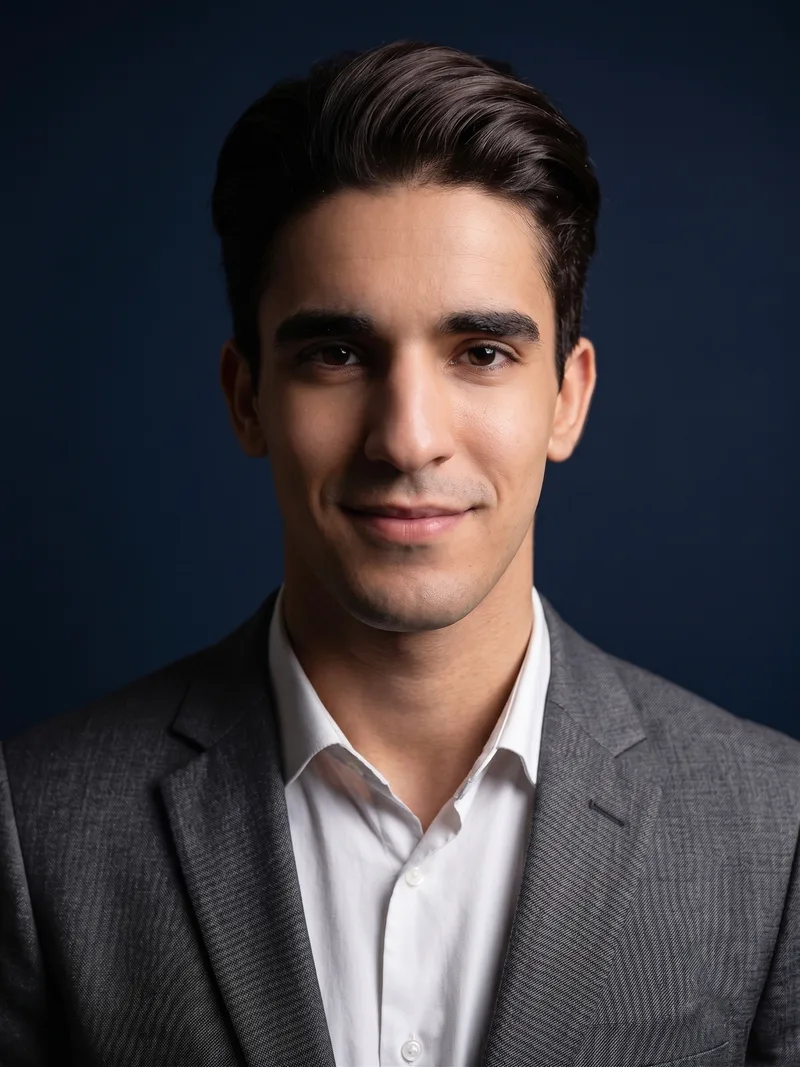
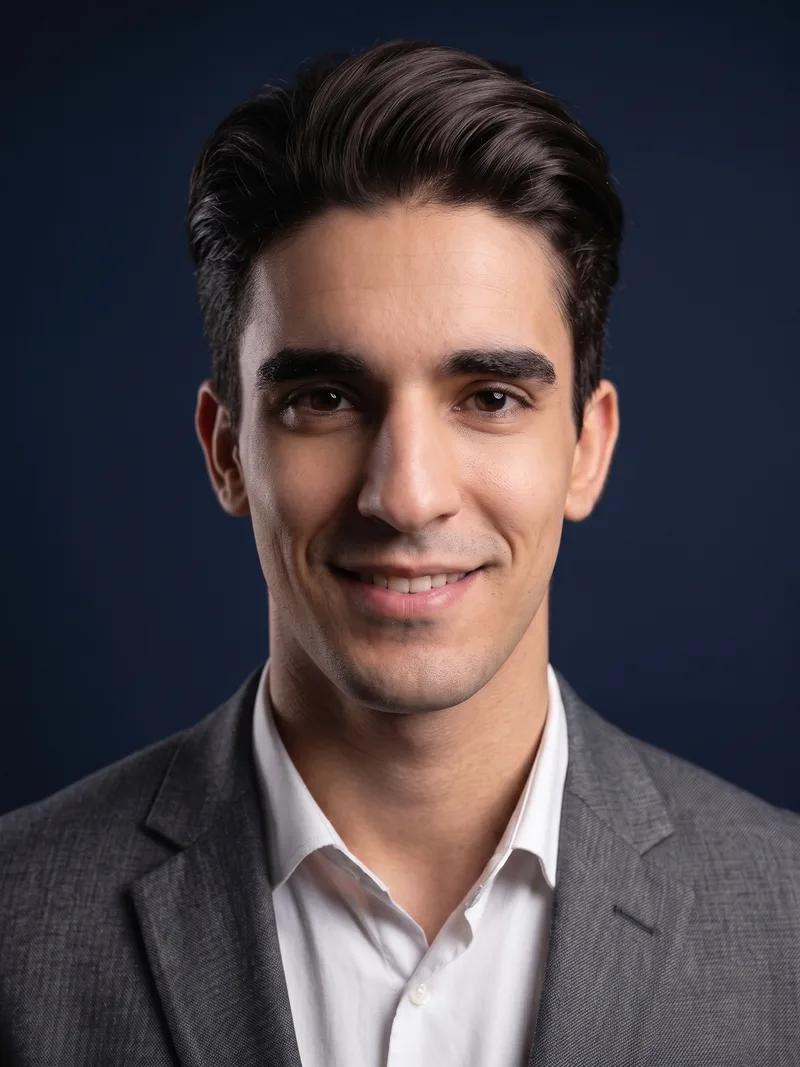
fix: accessibility gaps Lighthouse couldn't see, and the new profile photo
Lighthouse reported accessibility 100 while the theme toggle had no
accessible name at all — it runs at 412px by default, where that button
sits inside a closed menu and never renders. axe at 1280px caught it: on
desktop a screen reader announced only 'button'. The icons are now hidden
from the accessibility tree and the label names the action rather than the
state, in both languages.

The same pass fixes what no automated tool reports:

- Tab walked out of the open mobile menu onto 'View work' and 'Download
  resume' behind it, so for a screen reader user the menu vanished
  mid-navigation. Focus is now contained, Escape closes it, and focus
  returns to the trigger instead of the top of the document.
- No skip link existed, so reaching content meant tabbing the whole nav.
- Menu and toggle labels were hard-coded English even in Portuguese.

Adds Person + WebSite JSON-LD so a search engine reads the page as a named
professional with linked profiles, not prose that mentions a name.

Replaces the hero photo with the updated Ageu 17. Same 800x1067 the markup
declares, so no layout shift, and 66KB against 81KB. Checked at both sizes
it renders: the 56px circular avatar and the desktop card.

diff --git a/src/components/Navigation.tsx b/src/components/Navigation.tsx
@@ -1,4 +1,4 @@
-import React, { useState, useEffect } from "react";
+import React, { useState, useEffect, useRef } from "react";
 import { motion } from "framer-motion";
 import { Menu, X } from "lucide-react";
 import { ThemeToggle } from "./ui/theme-toggle";
@@ -26,6 +26,9 @@ const content = {
       { label: "Skills", href: "#skills" },
       { label: "Contact", href: "#contact" },
     ],
+    openMenu: "Open menu",
+    closeMenu: "Close menu",
+    menuLabel: "Main",
   },
   pt: {
     menuItems: [
@@ -35,6 +38,9 @@ const content = {
       { label: "Habilidades", href: "#skills" },
       { label: "Contato", href: "#contact" },
     ],
+    openMenu: "Abrir menu",
+    closeMenu: "Fechar menu",
+    menuLabel: "Principal",
   },
 };
 
@@ -53,6 +59,9 @@ const Navigation = ({
   const [isOpen, setIsOpen] = useState(false);
   const [isScrolled, setIsScrolled] = useState(false);
 
+  const menuRef = useRef<HTMLDivElement>(null);
+  const triggerRef = useRef<HTMLButtonElement>(null);
+
   useEffect(() => {
     const handleScroll = () => {
       setIsScrolled(window.scrollY > 20);
@@ -61,6 +70,53 @@ const Navigation = ({
     window.addEventListener("scroll", handleScroll);
     return () => window.removeEventListener("scroll", handleScroll);
   }, []);
+
+  /**
+   * An open menu covers the page, so Tab must not walk onto what's behind it —
+   * it was reaching "View work" and "Download resume" underneath, which for a
+   * screen reader user means the menu silently disappears mid-navigation.
+   * Escape closes it, the way any overlay should, and focus returns to the
+   * button that opened it rather than resetting to the top of the document.
+   */
+  useEffect(() => {
+    if (!isOpen) return;
+
+    const close = () => {
+      setIsOpen(false);
+      triggerRef.current?.focus();
+    };
+
+    const onKeyDown = (event: KeyboardEvent) => {
+      if (event.key === "Escape") {
+        event.preventDefault();
+        close();
+        return;
+      }
+      if (event.key !== "Tab") return;
+
+      const focusables = menuRef.current?.querySelectorAll<HTMLElement>(
+        'a[href], button:not([disabled]), input, select, textarea, [tabindex]:not([tabindex="-1"])',
+      );
+      if (!focusables?.length) return;
+
+      // The trigger sits outside the panel but belongs to the same loop, so it
+      // anchors the cycle — otherwise shift-tabbing off the first item escapes.
+      const first = triggerRef.current ?? focusables[0];
+      const last = focusables[focusables.length - 1];
+      const active = document.activeElement;
+
+      if (event.shiftKey && active === first) {
+        event.preventDefault();
+        last.focus();
+      } else if (!event.shiftKey && active === last) {
+        event.preventDefault();
+        first.focus();
+      }
+    };
+
+    document.addEventListener("keydown", onKeyDown);
+    return () => document.removeEventListener("keydown", onKeyDown);
+  }, [isOpen]);
 
   return (
     <motion.nav
@@ -91,7 +147,7 @@ const Navigation = ({
               </motion.button>
             ))}
             <div className="flex items-center gap-2">
-              <ThemeToggle theme={theme} toggleTheme={toggleTheme} />
+              <ThemeToggle theme={theme} toggleTheme={toggleTheme} language={language} />
               <LanguageToggle
                 language={language}
                 toggleLanguage={toggleLanguage}
@@ -102,14 +158,20 @@ const Navigation = ({
           {/* Mobile Navigation Button */}
           <div className="md:hidden">
             <Button
+              ref={triggerRef}
               variant="ghost"
               size="icon"
               onClick={() => setIsOpen(!isOpen)}
               className="text-muted-foreground h-11 w-11"
-              aria-label={isOpen ? "Close menu" : "Open menu"}
+              aria-label={isOpen ? t.closeMenu : t.openMenu}
               aria-expanded={isOpen}
+              aria-controls="mobile-menu"
             >
-              {isOpen ? <X size={24} /> : <Menu size={24} />}
+              {isOpen ? (
+                <X size={24} aria-hidden="true" />
+              ) : (
+                <Menu size={24} aria-hidden="true" />
+              )}
             </Button>
           </div>
         </div>
@@ -117,6 +179,8 @@ const Navigation = ({
         {/* Mobile Navigation Menu */}
         {isOpen && (
           <motion.div
+            ref={menuRef}
+            id="mobile-menu"
             initial={{ opacity: 0, y: -20 }}
             animate={{ opacity: 1, y: 0 }}
             exit={{ opacity: 0, y: -20 }}
@@ -138,7 +202,7 @@ const Navigation = ({
               ))}
 
               <div className="border-t border-muted pt-4 flex items-center gap-4">
-                <ThemeToggle theme={theme} toggleTheme={toggleTheme} />
+                <ThemeToggle theme={theme} toggleTheme={toggleTheme} language={language} />
                 <LanguageToggle
                   language={language}
                   toggleLanguage={toggleLanguage}

diff --git a/index.html b/index.html
@@ -39,6 +39,59 @@
       href="https://fonts.googleapis.com/css2?family=Archivo:ital,wdth,wght@0,62..125,100..900&family=JetBrains+Mono:wght@400;500;700&display=swap"
       rel="stylesheet"
     />
+
+    <!--
+      Structured data. Meta tags describe the page; this describes the person,
+      so a search engine can tell that "Ageu Menezes" is a named professional
+      with these profiles rather than a phrase that appears in the text. sameAs
+      is what ties this page to the GitHub and LinkedIn accounts as one identity.
+    -->
+    <script type="application/ld+json">
+      {
+        "@context": "https://schema.org",
+        "@graph": [
+          {
+            "@type": "Person",
+            "@id": "https://ageumenezes-dp-2.vercel.app/#ageu",
+            "name": "Ageu Menezes",
+            "jobTitle": "Front-End Developer",
+            "description": "Front-end developer who ships full products — React, Next.js and TypeScript, with the backend and DevOps skills to take an idea from design to production.",
+            "url": "https://ageumenezes-dp-2.vercel.app/",
+            "image": "https://ageumenezes-dp-2.vercel.app/photos/ageu-hero.webp",
+            "email": "mailto:ageumenezes23@gmail.com",
+            "address": {
+              "@type": "PostalAddress",
+              "addressRegion": "Ceará",
+              "addressCountry": "BR"
+            },
+            "knowsLanguage": ["pt-BR", "en"],
+            "knowsAbout": [
+              "React",
+              "Next.js",
+              "TypeScript",
+              "Node.js",
+              "Tailwind CSS",
+              "PostgreSQL",
+              "Playwright",
+              "Docker"
+            ],
+            "sameAs": [
+              "https://github.com/ageumenezesDev19",
+              "https://www.linkedin.com/in/ageu-menezes-silva-dev/"
+            ]
+          },
+          {
+            "@type": "WebSite",
+            "@id": "https://ageumenezes-dp-2.vercel.app/#website",
+            "url": "https://ageumenezes-dp-2.vercel.app/",
+            "name": "Ageu Menezes — Front-End Developer",
+            "inLanguage": "en",
+            "author": { "@id": "https://ageumenezes-dp-2.vercel.app/#ageu" },
+            "publisher": { "@id": "https://ageumenezes-dp-2.vercel.app/#ageu" }
+          }
+        ]
+      }
+    </script>
   </head>
   <body>
     <div id="root"></div>

diff --git a/src/components/ui/theme-toggle.tsx b/src/components/ui/theme-toggle.tsx
@@ -5,9 +5,23 @@ import { motion } from "framer-motion";
 interface ThemeToggleProps {
   theme: "light" | "dark";
   toggleTheme: () => void;
+  language: "en" | "pt";
 }
 
-export function ThemeToggle({ theme, toggleTheme }: ThemeToggleProps) {
+/**
+ * The label names what the click will do, not the current state — "dark theme"
+ * alone leaves a screen reader user guessing whether it reports or switches.
+ * It has to be spoken text: the sun and moon are decorative to a screen
+ * reader, so without this the button announced only "button".
+ */
+const label = {
+  en: { toLight: "Switch to light theme", toDark: "Switch to dark theme" },
+  pt: { toLight: "Mudar para o tema claro", toDark: "Mudar para o tema escuro" },
+};
+
+export function ThemeToggle({ theme, toggleTheme, language }: ThemeToggleProps) {
+  const t = label[language];
+
   return (
     <Button
       variant="ghost"
@@ -15,9 +29,17 @@ export function ThemeToggle({ theme, toggleTheme }: ThemeToggleProps) {
       onClick={toggleTheme}
       className="relative"
     >
-      <Sun className="h-5 w-5 rotate-0 scale-100 transition-all dark:-rotate-90 dark:scale-0" />
-      <Moon className="absolute h-5 w-5 rotate-90 scale-0 transition-all dark:rotate-0 dark:scale-100" />
+      <Sun
+        aria-hidden="true"
+        className="h-5 w-5 rotate-0 scale-100 transition-all dark:-rotate-90 dark:scale-0"
+      />
+      <Moon
+        aria-hidden="true"
+        className="absolute h-5 w-5 rotate-90 scale-0 transition-all dark:rotate-0 dark:scale-100"
+      />
+      <span className="sr-only">{theme === "dark" ? t.toLight : t.toDark}</span>
       <motion.div
+        aria-hidden="true"
         className="absolute inset-0 rounded-full"
         initial={false}
         animate={{

diff --git a/src/components/home.tsx b/src/components/home.tsx
@@ -2,6 +2,12 @@ import { lazy, Suspense } from "react";
 import Navigation from "./Navigation";
 import HeroSection from "./HeroSection";
 import { scrollToSection } from "@/lib/scroll";
+import { useLanguage } from "@/providers/language-provider";
+
+const skipLabel = {
+  en: "Skip to main content",
+  pt: "Pular para o conteúdo principal",
+};
 
 // Below-the-fold sections are split out of the initial bundle
 const ProjectsSection = lazy(() => import("./ProjectsSection"));
@@ -13,12 +19,24 @@ const Footer = lazy(() => import("./Footer"));
 
 const Home = () => {
   const handleScroll = (sectionId: string) => scrollToSection(sectionId);
+  const { language } = useLanguage();
 
   return (
     <div className="bg-background min-h-screen">
+      {/* First thing in the tab order, and invisible until it has focus: without
+          it a keyboard user walks the whole nav before reaching any content. */}
+      <a
+        href="#main-content"
+        className="sr-only focus:not-sr-only focus:fixed focus:top-3 focus:left-3 focus:z-[100]
+          focus:rounded-md focus:border focus:border-border focus:bg-background
+          focus:px-4 focus:py-3 focus:text-sm focus:font-medium focus:text-foreground"
+      >
+        {skipLabel[language]}
+      </a>
+
       <Navigation onNavClick={handleScroll} />
 
-      <main>
+      <main id="main-content" tabIndex={-1}>
         <section id="hero">
           <HeroSection onExploreClick={() => handleScroll("#projects")} />
         </section>

diff --git a/src/components/ui/language-toggle.tsx b/src/components/ui/language-toggle.tsx
@@ -6,6 +6,12 @@ interface LanguageToggleProps {
   toggleLanguage: () => void;
 }
 
+/** Names the destination, since "toggle" doesn't say which language you'd land in. */
+const label = {
+  en: "Mudar para português",
+  pt: "Switch to English",
+};
+
 export function LanguageToggle({
   language,
   toggleLanguage,
@@ -17,8 +23,8 @@ export function LanguageToggle({
       onClick={toggleLanguage}
       className="relative group"
     >
-      <Languages className="h-5 w-5" />
-      <span className="sr-only">Toggle language</span>
+      <Languages aria-hidden="true" className="h-5 w-5" />
+      <span className="sr-only">{label[language]}</span>
       <span className="absolute -bottom-5 left-1/2 transform -translate-x-1/2 text-xs font-medium opacity-0 group-hover:opacity-100 transition-opacity">
         {language.toUpperCase()}
       </span>
